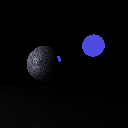
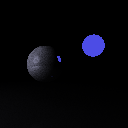
Using more rays and smaples per pixle

Changed region(s): [[0.1875, 0.375, 0.375, 0.5938]]

diff --git a/py_src/main.py b/py_src/main.py
@@ -227,9 +227,9 @@ if __name__ == "__main__":
         get_lit_studio_scene(256, 256),
     ]
 
-    rpp = 1  # rays per pixel
-    spp = 1  # samples per pixel
-    raytracer = Raytracer(rays_per_pixel=rpp)
+    rpp = 4  # rays per pixel
+    spp = 2  # samples per pixel
+    gag = Raytracer(rays_per_pixel=rpp)
     sampler = RandomSampler(samples_per_pixel=spp)
 
     for scene in all_scenes:
